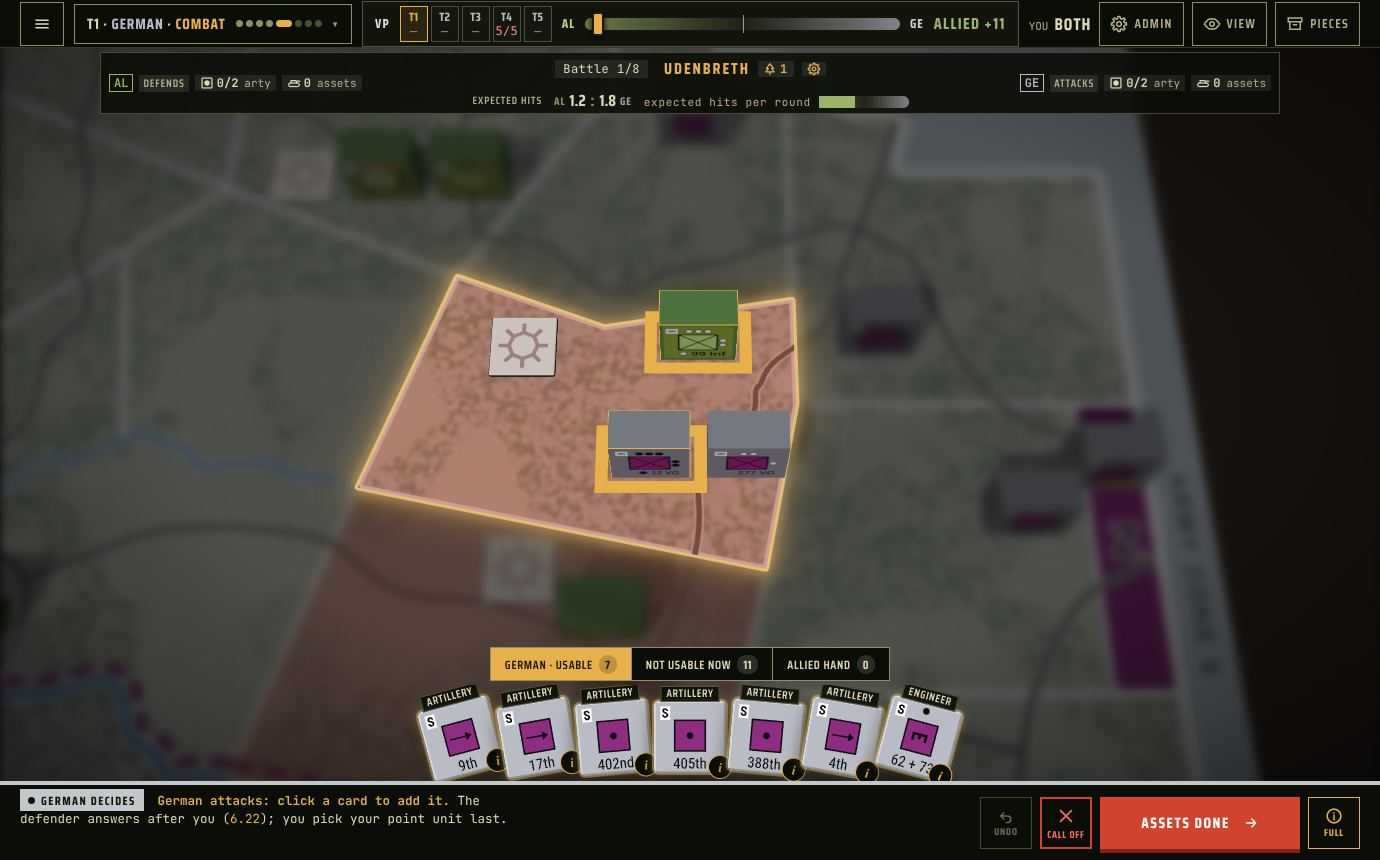
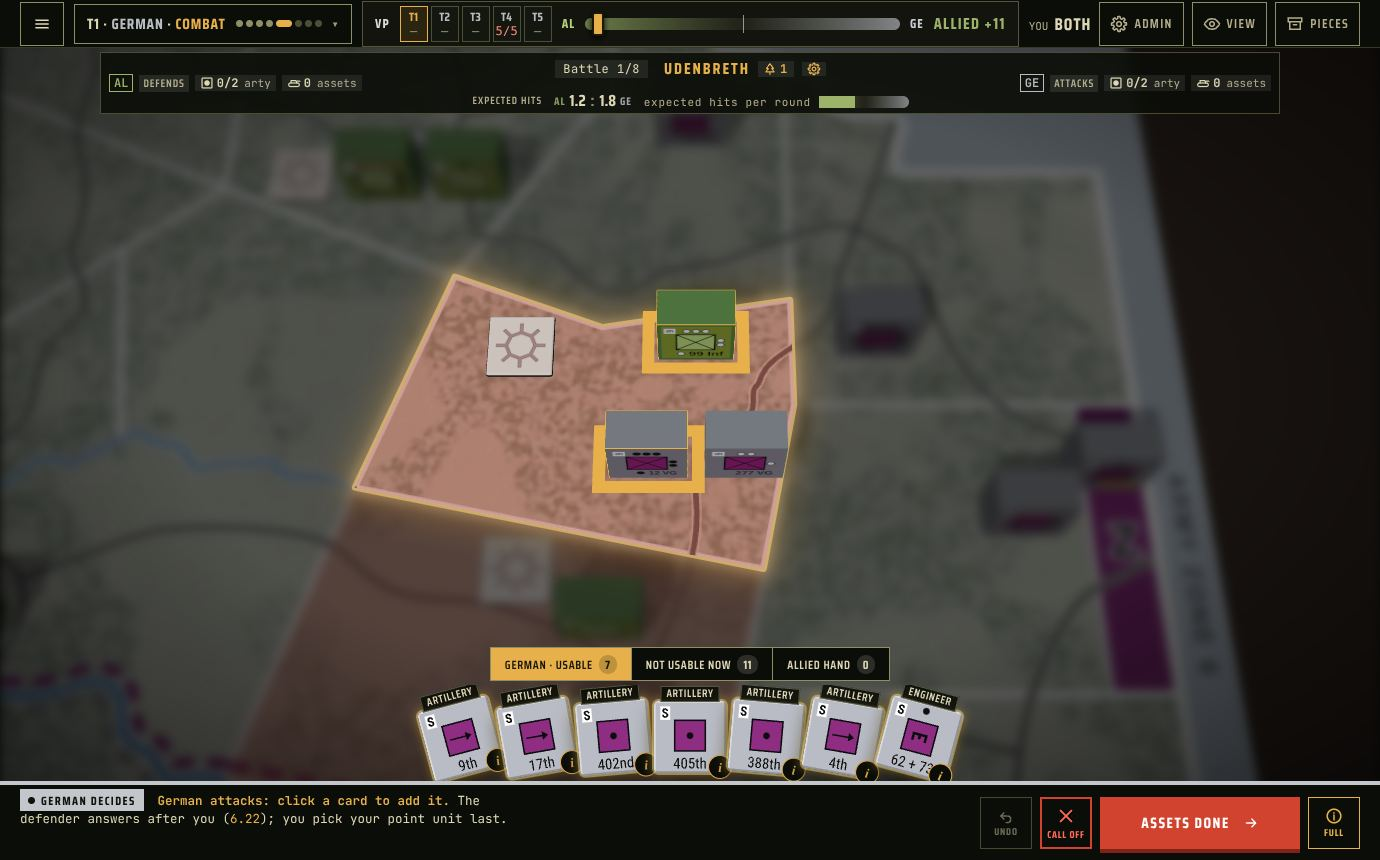
Hot-seat table: hidden blocks follow the player holding the screen
On a game played on this screen (online.hotseat), only the side holding
the screen sees its hidden blocks; while the "Pass to the … player" strip
shows, nobody's do. No seat bar, invite, chat or move notice; the replay
records both sides' blocks. The two-browser test (npm run online) checks
the strip and who holds the screen at a hand-over.

Claude-Session: https://claude.ai/code/session_01ME3JNWPCjyD5txMyWoKnu2

diff --git a/web/src/render.ts b/web/src/render.ts
@@ -249,6 +249,7 @@ function renderInner() {
     const handOver = !b || ['setup', 'attFirst', 'attChoice', 'defChoice', 'loss', 'retreat'].includes(b.stage); // the real hand-overs: not each alternating roll of a battle (owner, 14 Nov)
     if (lastActor && handOver && !TUT && mine(actor) && mine(other(actor))) passTo = actor; // one device, both sides: ask to pass it (design review, problem 1)
     lastActor = actor;
+    if (online.hotseat) online.holder = passTo ? 'spectator' : actor; // while the device is passed, nobody's hidden blocks show
   }
   const alert = g.pendingBlow
     ? (() => {
@@ -650,8 +651,9 @@ document.addEventListener(
   'pointerdown',
   () => {
     if (passTo) {
+      if (online.hotseat) online.holder = passTo; // the new player has the screen: their hidden blocks show, the other's are covered
       passTo = null;
-      setTimeout(render);
+      setTimeout(online.hotseat ? refresh : render);
     }
   },
   true,
@@ -720,7 +722,7 @@ export function refresh() {
   } // the computer's dice are thrown on the table like a player's
   if (online.mode === 'remote') setTimeout(driveSplit, 0);
   {
-    const key = `${online.devSeat}|${online.mySide()}|${g.battle?.attPoint}|${reinforcing}|${g.battle?.stage}|${g.battle?.pending}|${selChit}|${selArea}|${tgtMode}|${g.turn}${g.phase}|${g.log.length}|${g.rolls}`; // the dry runs behind the highlights are costly: redo them only when something they depend on changed
+    const key = `${online.devSeat}|${online.holder}|${online.mySide()}|${g.battle?.attPoint}|${reinforcing}|${g.battle?.stage}|${g.battle?.pending}|${selChit}|${selArea}|${tgtMode}|${g.turn}${g.phase}|${g.log.length}|${g.rolls}`; // the dry runs behind the highlights are costly: redo them only when something they depend on changed
     if (key !== tgtKey) {
       tgtKey = key;
       setTgt(

diff --git a/web/src/game-state.ts b/web/src/game-state.ts
@@ -107,7 +107,7 @@ export function record(own: boolean, gm: E.Game = g) {
   if (online.mode === 'remote') {
     const me = online.mySide();
     if (!me) return rec.seen(gm);
-    const u = JSON.stringify(unitsOf(gm, me)),
+    const u = JSON.stringify(unitsOf(gm, online.hotseat ? null : me)), // hot-seat: one record holds both sides' blocks
       mine = () => {
         if (u !== rec.units) {
           rec.units = u;
@@ -171,7 +171,7 @@ export async function showReplay() {
 /** This player's move handed the move to the opponent: the push relay tells them, even with their app closed (4.3 step 2). */
 function handOver() {
   const me = online.mySide();
-  if (online.mode !== 'remote' || !me) return;
+  if (online.mode !== 'remote' || !me || online.hotseat) return; // hot-seat: nobody elsewhere to tell
   const now = turnOf(g, other(me));
   if (oppTurn === false && now) void pushNotify(TABLE, auth.token);
   oppTurn = now;

diff --git a/web/src/map-paint.ts b/web/src/map-paint.ts
@@ -82,7 +82,7 @@ export const viewSide = (): E.Side =>
   labHuman() ?? (online.active && !online.both() && online.mySide() ? online.mySide()! : (tutView ?? VOL.bottom));
 export const farSide = () => viewSide() !== VOL.bottom;
 const fogSide = (): E.Side | 'spectator' | null =>
-  labHuman() ?? (online.active && !online.both() ? (online.mySide() ?? 'spectator') : null);
+  labHuman() ?? (online.hotseat ? (online.holder ?? g.phasing) : online.active && !online.both() ? (online.mySide() ?? 'spectator') : null); // hot-seat: only the side holding the screen sees its hidden blocks
 export const seen = (u: E.Unit) => E.visibleTo(g, u, fogSide());
 /** Sicily's untried garrisons (15.3) stand face down for both players, the owner too, until a battle reveals them. */
 export const faceDown = (u: E.Unit) => !seen(u) || (!!u.untried && u.up !== u.area);

diff --git a/web/src/menus.ts b/web/src/menus.ts
@@ -43,7 +43,7 @@ function rulesInUse(o: Partial<E.Opts>, extra = true): string {
 export function seatBar() {
   if (LAB_SIDE)
     return `<div class="seatbar" title="${esc(lab.reason)}"><span>${ico('info')} Computer: ${nm(LAB_SIDE)}${lab.thinking ? ' · thinking…' : ''}${lab.reason ? ` · <small>${esc(lab.reason.split(' (')[0].split(': judged')[0])}</small>` : ''}</span></div>`; // the full reason on hover: a phone keeps the map
-  if (online.mode !== 'remote' || !online.hasAccounts) return '';
+  if (online.mode !== 'remote' || !online.hasAccounts || online.hotseat) return ''; // hot-seat: both players are here, no seat to take or opponent to invite
   if (online.error)
     return `<div class="seatbar err"><span>${esc(online.error)}</span>${ubtn('OK', () => {
       online.error = '';

diff --git a/web/src/online.ts b/web/src/online.ts
@@ -140,6 +140,8 @@ export const online = {
   hasAccounts: false,
   /** A hot-seat game: two players on this one screen, saved online under one account. The whole game is stored as it is (nobody to hide blocks from); its owner, in its one seat, acts for both sides. */
   hotseat: false,
+  /** Hot-seat: the side now holding the screen (its hidden blocks show), or 'spectator' while the device is being passed. */
+  holder: null as Side | 'spectator' | null,
   mySide(): Side | null {
     if (this.devSwitch()) return this.devSeat !== 'both' && this.devSeat !== 'watch' ? this.devSeat : null;
     return this.seats.german === this.uid && this.uid

diff --git a/web/src/chat.ts b/web/src/chat.ts
@@ -6,7 +6,7 @@ import { reg } from './ui-kit';
 
 let say: (t: string) => void = () => {},
   render: () => void = () => {};
-const chatOn = () => (online.mode === 'remote' && (online.mySide() != null || online.admin)) || DEV_FAKE; // the two players only (and an admin): watchers see no chat (owner, 15 November 2026)
+const chatOn = () => (online.mode === 'remote' && !online.hotseat && (online.mySide() != null || online.admin)) || DEV_FAKE; // the two players only (and an admin): watchers see no chat (owner, 15 November 2026)
 let chatOpen = false,
   chatDraft = '',
   chatSeen = (() => {
